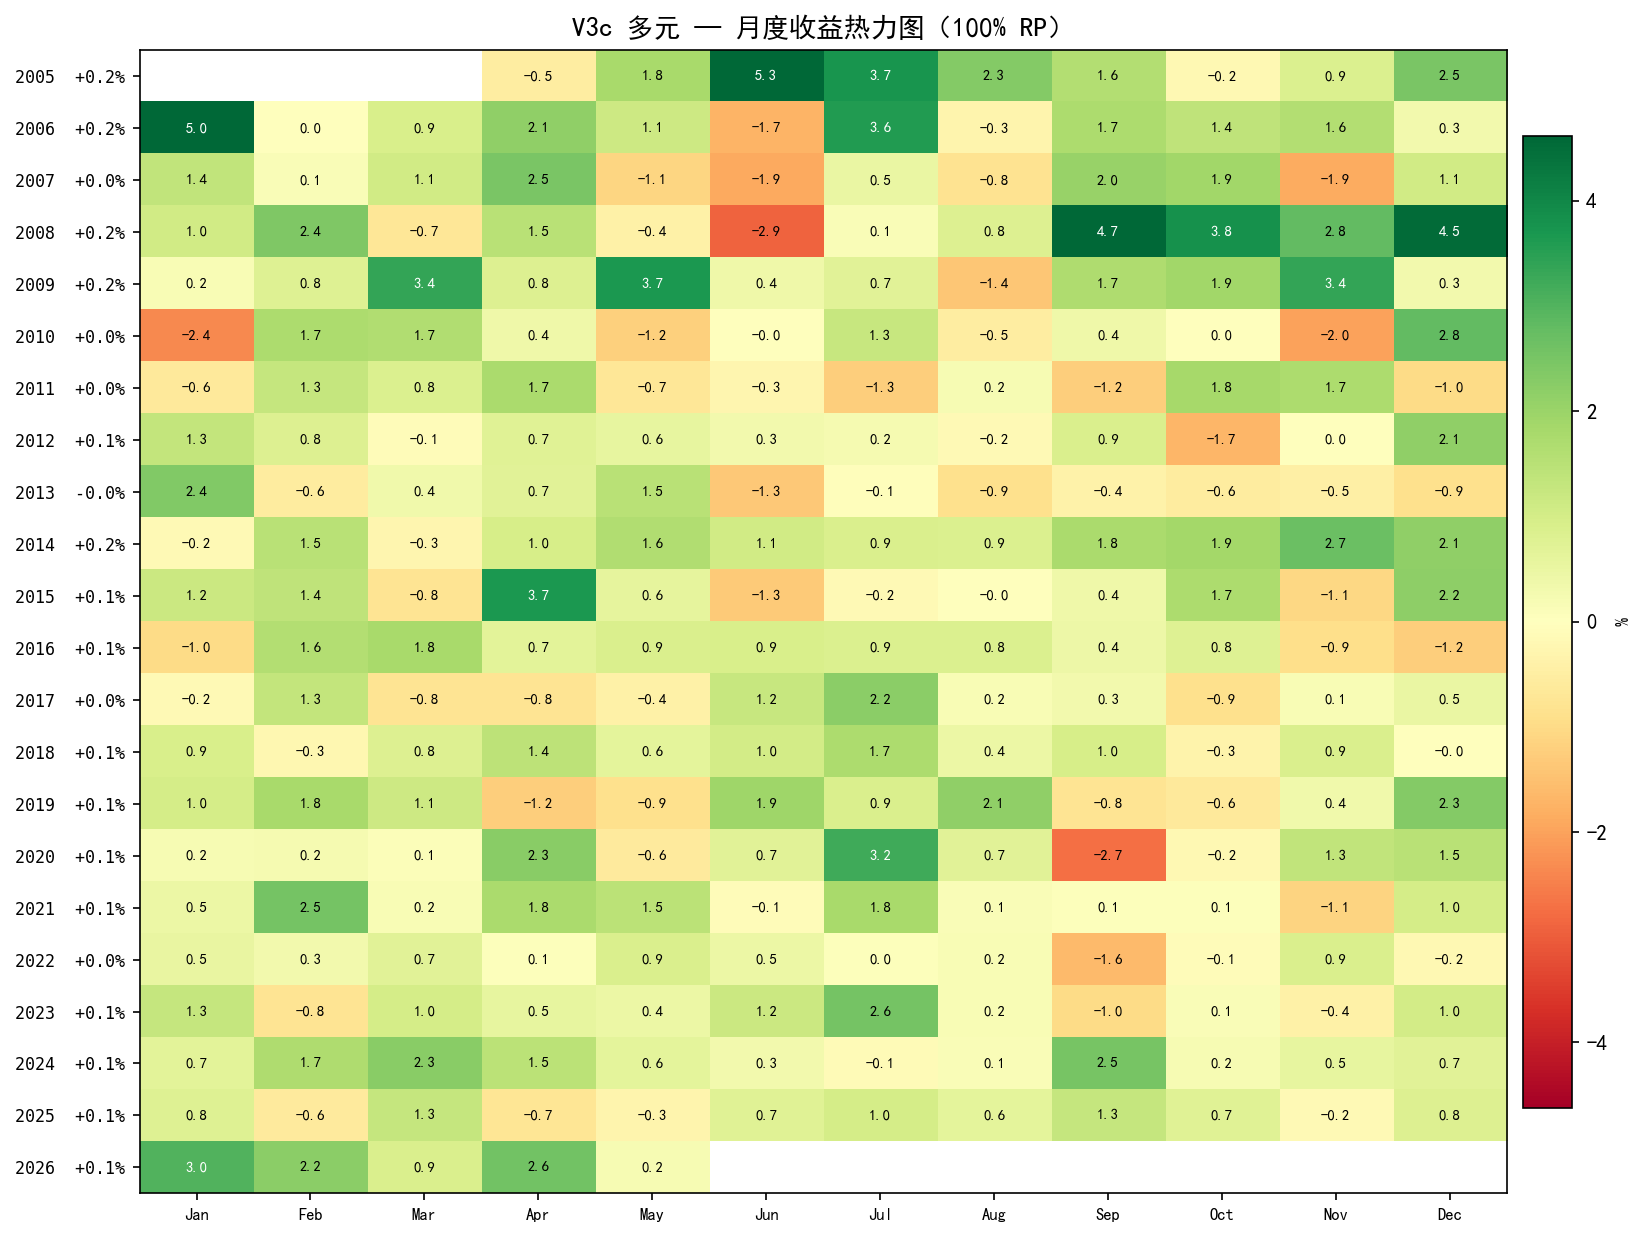
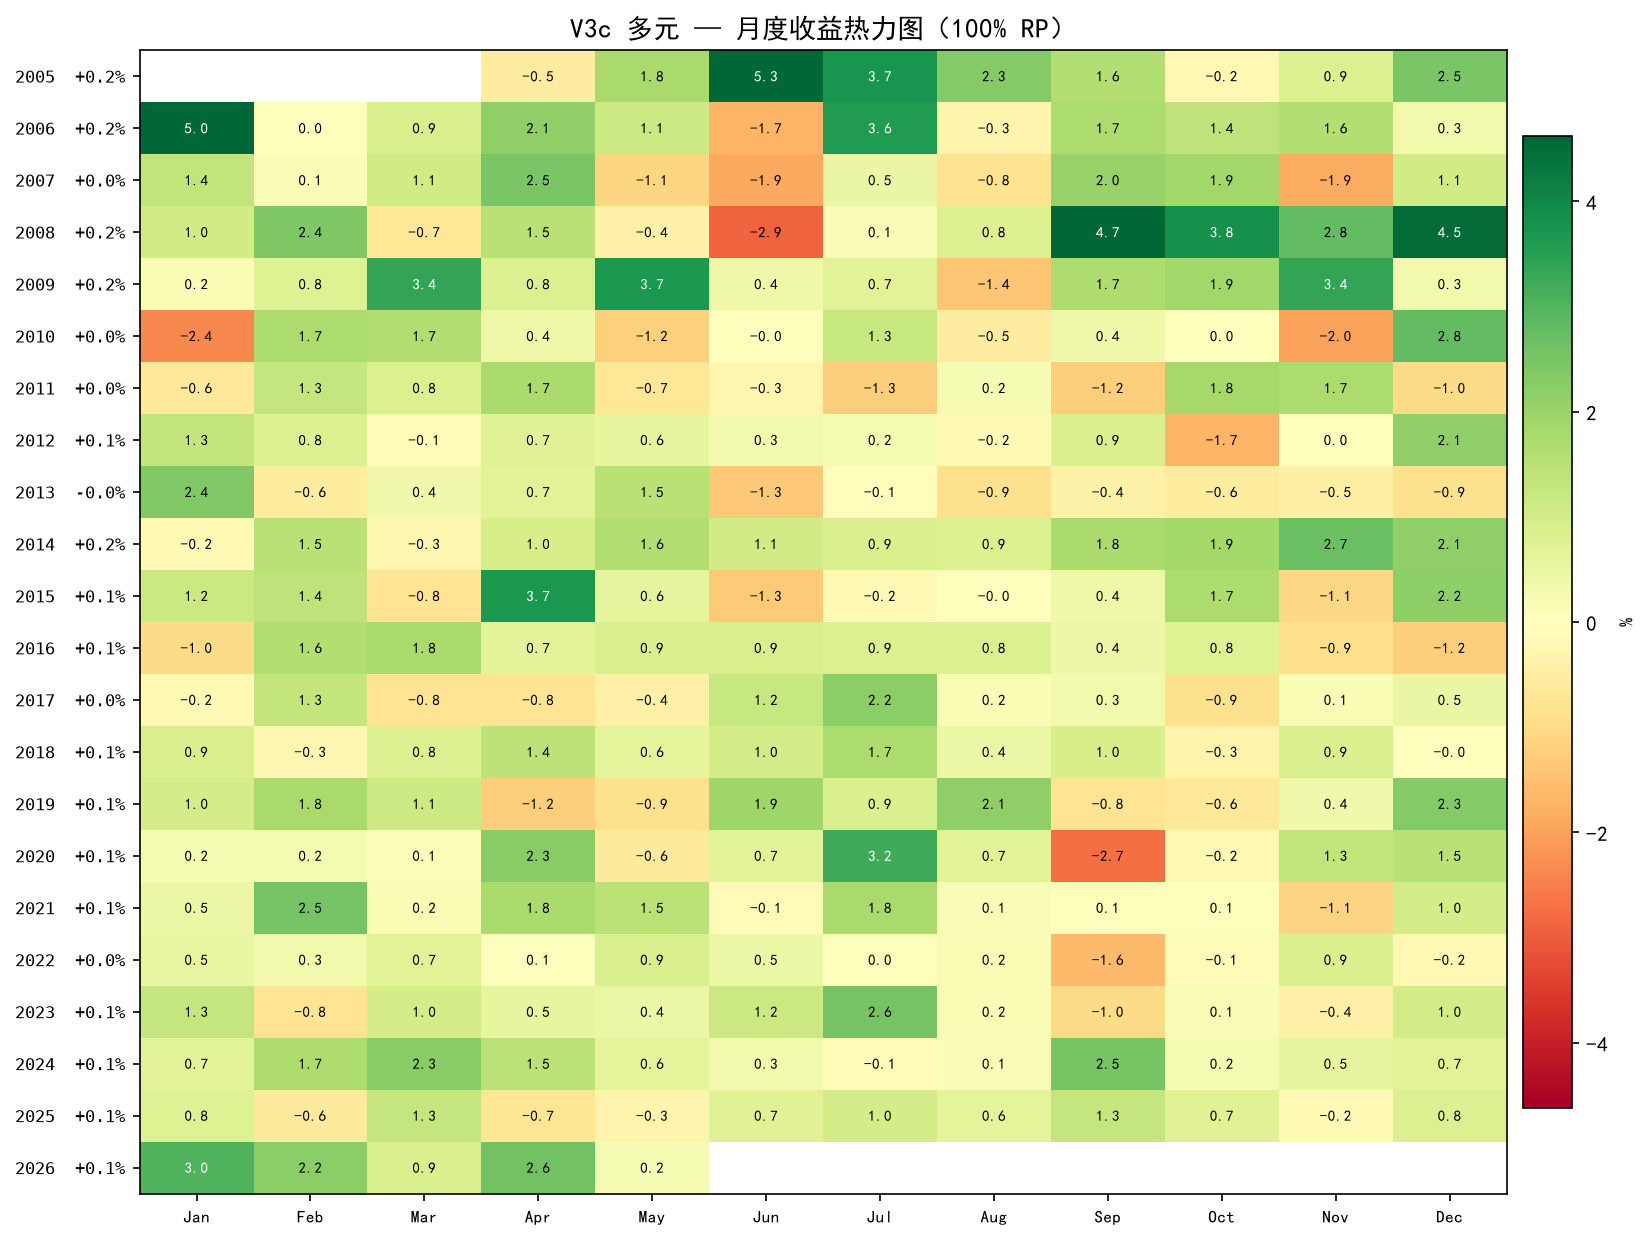
docs: CLAUDE.template.md 架构参考补全（types/rebalance/update_docs 等）+ 整理后回测重跑同步图表

diff --git a/docs/index.html b/docs/index.html
@@ -1621,6 +1621,7 @@ function downloadHTML() {
 
 
 
+
 <!-- ALLWEATHER_SYNC_START --><script>
 (function(){
 const D = {"V3-B 保守增强(20d)": {"100% RP": {"cum_return": 4.557159, "cagr": 0.082643, "vol": 0.036242, "mdd": -0.053127, "sharpe": 1.811231, "calmar": 1.555561, "final_nv": 5.5572}, "85% RP": {"cum_return": 3.548181, "cagr": 0.072646, "vol": 0.030806, "mdd": -0.04448, "sharpe": 1.806361, "calmar": 1.633238, "final_nv": 4.5482}, "70% RP": {"cum_return": 2.719997, "cagr": 0.062711, "vol": 0.025369, "mdd": -0.035775, "sharpe": 1.801793, "calmar": 1.752915, "final_nv": 3.72}, "动态": {"cum_return": 3.855891, "cagr": 0.075902, "vol": 0.032362, "mdd": -0.039691, "sharpe": 1.820113, "calmar": 1.912344, "final_nv": 4.8559}}, "V3-B 风险平价(20d)": {"100% RP": {"cum_return": 5.367113, "cagr": 0.089484, "vol": 0.049041, "mdd": -0.056805, "sharpe": 1.478027, "calmar": 1.575288, "final_nv": 6.3671}, "85% RP": {"cum_return": 4.113521, "cagr": 0.078481, "vol": 0.041685, "mdd": -0.046388, "sharpe": 1.474884, "calmar": 1.691834, "final_nv": 5.1135}, "70% RP": {"cum_return": 3.101907, "cagr": 0.06753, "vol": 0.034329, "mdd": -0.036177, "sharpe": 1.471935, "calmar": 1.866663, "final_nv": 4.1019}, "动态": {"cum_return": 4.270231, "cagr": 0.079989, "vol": 0.043353, "mdd": -0.056805, "sharpe": 1.452915, "calmar": 1.408131, "final_nv": 5.2702}}, "V3c 多元": {"100% RP": {"cum_return": 5.816626, "cagr": 0.092931, "vol": 0.045965, "mdd": -0.062787, "sharpe": 1.651919, "calmar": 1.480083, "final_nv": 6.8166}, "85% RP": {"cum_return": 4.416594, "cagr": 0.081359, "vol": 0.03907, "mdd": -0.052746, "sharpe": 1.64727, "calmar": 1.542486, "final_nv": 5.4166}, "70% RP": {"cum_return": 3.29966, "cagr": 0.069859, "vol": 0.032176, "mdd": -0.042627, "sharpe": 1.642845, "calmar": 1.638855, "final_nv": 4.2997}}, "_yearly": {"V3-B 保守增强(20d)": {"2005": 0.171943, "2006": 0.114891, "2007": 0.019321, "2008": 0.140551, "2009": 0.124558, "2010": 0.058963, "2011": 0.063884, "2012": 0.056069, "2013": -0.004883, "2014": 0.148338, "2015": 0.101585, "2016": 0.056621, "2017": 0.031086, "2018": 0.075159, "2019": 0.081299, "2020": 0.086555, "2021": 0.09837, "2022": 0.050342, "2023": 0.062217, "2024": 0.136445, "2025": 0.067619, "2026": 0.061539}, "V3-B 风险平价(20d)": {"2005": 0.173158, "2006": 0.202223, "2007": 0.03873, "2008": 0.090164, "2009": 0.199517, "2010": 0.052825, "2011": 0.029799, "2012": 0.022616, "2013": 0.010806, "2014": 0.175591, "2015": 0.108128, "2016": 0.04507, "2017": 0.036892, "2018": 0.077837, "2019": 0.087798, "2020": 0.094322, "2021": 0.121297, "2022": 0.048574, "2023": 0.071175, "2024": 0.115059, "2025": 0.089827, "2026": 0.069804}, "V3c 多元": {"2005": 0.19673, "2006": 0.178092, "2007": 0.034551, "2008": 0.179825, "2009": 0.196026, "2010": 0.052539, "2011": 0.041896, "2012": 0.049253, "2013": 0.008192, "2014": 0.170409, "2015": 0.095082, "2016": 0.051542, "2017": 0.032976, "2018": 0.077655, "2019": 0.078281, "2020": 0.089793, "2021": 0.115533, "2022": 0.04251, "2023": 0.058794, "2024": 0.126292, "2025": 0.079955, "2026": 0.08121}}, "_events": {"V3-B 保守增强(20d)": {"2008 GFC": 0.108117, "2015 股灾": -0.029055, "2016 熔断": -0.000618, "2017 债熊": 0.030098, "2018 大熊市": 0.044629, "2019 春季反弹": 0.031272, "2020 疫情": -0.030281, "2020-Q4 内需复苏": 0.009538, "2021-2 白马回撤": 0.007111, "2022 股债双杀": 0.048261, "2022 理财赎回": 0.006588, "2024 雪球危机": 0.023271, "2024-08 长债": 0.025626, "2024-924 反弹": 0.022485, "2025-Q1 长债": 0.005315, "2025-9 关税": 0.030282}, "V3-B 风险平价(20d)": {"2008 GFC": 0.065813, "2015 股灾": -0.037725, "2016 熔断": -0.003917, "2017 债熊": 0.033713, "2018 大熊市": 0.060255, "2019 春季反弹": 0.066382, "2020 疫情": -0.03211, "2020-Q4 内需复苏": 0.010181, "2021-2 白马回撤": 0.016257, "2022 股债双杀": 0.052742, "2022 理财赎回": 0.005107, "2024 雪球危机": 0.026172, "2024-08 长债": 0.008684, "2024-924 反弹": -0.010897, "2025-Q1 长债": 0.008591, "2025-9 关税": 0.036034}, "V3c 多元": {"2008 GFC": 0.163638, "2015 股灾": -0.043152, "2016 熔断": -0.005851, "2017 债熊": 0.031164, "2018 大熊市": 0.046572, "2019 春季反弹": 0.044387, "2020 疫情": -0.020351, "2020-Q4 内需复苏": 0.007391, "2021-2 白马回撤": 0.011597, "2022 股债双杀": 0.042696, "2022 理财赎回": 0.013697, "2024 雪球危机": 0.024508, "2024-08 长债": 0.025179, "2024-924 反弹": 0.020998, "2025-Q1 长债": 0.01739, "2025-9 关税": 0.030126}}, "_bootstrap": {"V3-B 保守增强(20d)": {"p5": 0.111155, "p25": 0.290412, "median": 0.414498, "p75": 0.538985, "p95": 0.741538, "annual_median": 0.071817, "loss_prob": 0.009}, "V3-B 风险平价(20d)": {"p5": 0.077417, "p25": 0.302263, "median": 0.483476, "p75": 0.654195, "p95": 0.949033, "annual_median": 0.082072, "loss_prob": 0.025}, "V3c 多元": {"p5": 0.056933, "p25": 0.274449, "median": 0.434169, "p75": 0.598705, "p95": 0.86983, "annual_median": 0.074781, "loss_prob": 0.025}}, "_regime": {"V3-B 保守增强(20d)": {"股牛+债牛": {"avg": 0.02918, "n": 34}, "股牛+债熊": {"avg": 0.009304, "n": 14}, "股熊+债牛": {"avg": 0.022209, "n": 29}, "股熊+债熊": {"avg": -0.00235, "n": 8}}, "V3-B 风险平价(20d)": {"股牛+债牛": {"avg": 0.029174, "n": 34}, "股牛+债熊": {"avg": 0.019409, "n": 14}, "股熊+债牛": {"avg": 0.019935, "n": 29}, "股熊+债熊": {"avg": 0.006701, "n": 8}}, "V3c 多元": {"股牛+债牛": {"avg": 0.031945, "n": 34}, "股牛+债熊": {"avg": 0.012698, "n": 14}, "股熊+债牛": {"avg": 0.023377, "n": 29}, "股熊+债熊": {"avg": 0.002848, "n": 8}}}};
@@ -2081,6 +2082,7 @@ if (T) {
 console.log('data.json sync: '+Object.keys(D).length+' strategies loaded');
 })();
 </script><!-- ALLWEATHER_SYNC_END -->
+
 
 
 

diff --git a/CLAUDE.template.md b/CLAUDE.template.md
@@ -144,6 +144,8 @@ V3-B RP 和 V3c 去掉了 bond_10y（CAGR +1.43pp，Sharpe 仅 -0.02）。
 main.py → pipeline.run_full_pipeline()
 allweather/
   config.py         所有常量
+  types.py          PerfMetrics/Step3Metrics 等共享类型
+  experiment_log.py 实验日志（experiments.jsonl）
   data.py           加载 + 合成 30Y 国债
   fetch.py          akshare 数据拉取
   backtest.py       统一回测引擎
@@ -151,14 +153,20 @@ allweather/
   risk.py           逆波动率 / 分层风险平价 / 趋势过滤
   stats.py          指标 / Bootstrap / D_excess
   reports.py        控制台输出
+  charts.py         8 张 matplotlib 图表
   excel_export.py   Excel 报告
   markdown_report.py Markdown 报告
+  update_docs.py    README/CLAUDE.md/docs 同步
+  rebalance.py      实盘再平衡（streamlit_app 调用）
   pipeline.py       6 步编排
+streamlit_app/     Web 再平衡面板（app.py 主程序 + run.py 启动器）
+joinquant/         聚宽平台量化测试代码（独立于核心流水线）
+portfolio_comparison/  多策略对比工具
 ```
 
 **模块依赖分层：**
 - **第 0 层**: config.py, risk.py, experiment_log.py
-- **第 1 层**: data.py, fetch.py, stats.py, charts.py, reports.py, excel_export.py, markdown_report.py, update_docs.py
+- **第 1 层**: types.py, data.py, fetch.py, stats.py, charts.py, reports.py, excel_export.py, markdown_report.py, update_docs.py
 - **第 2 层**: backtest.py, rebalance.py
 - **第 3 层**: strategy_b.py
 - **第 4 层(编排)**: pipeline.py
